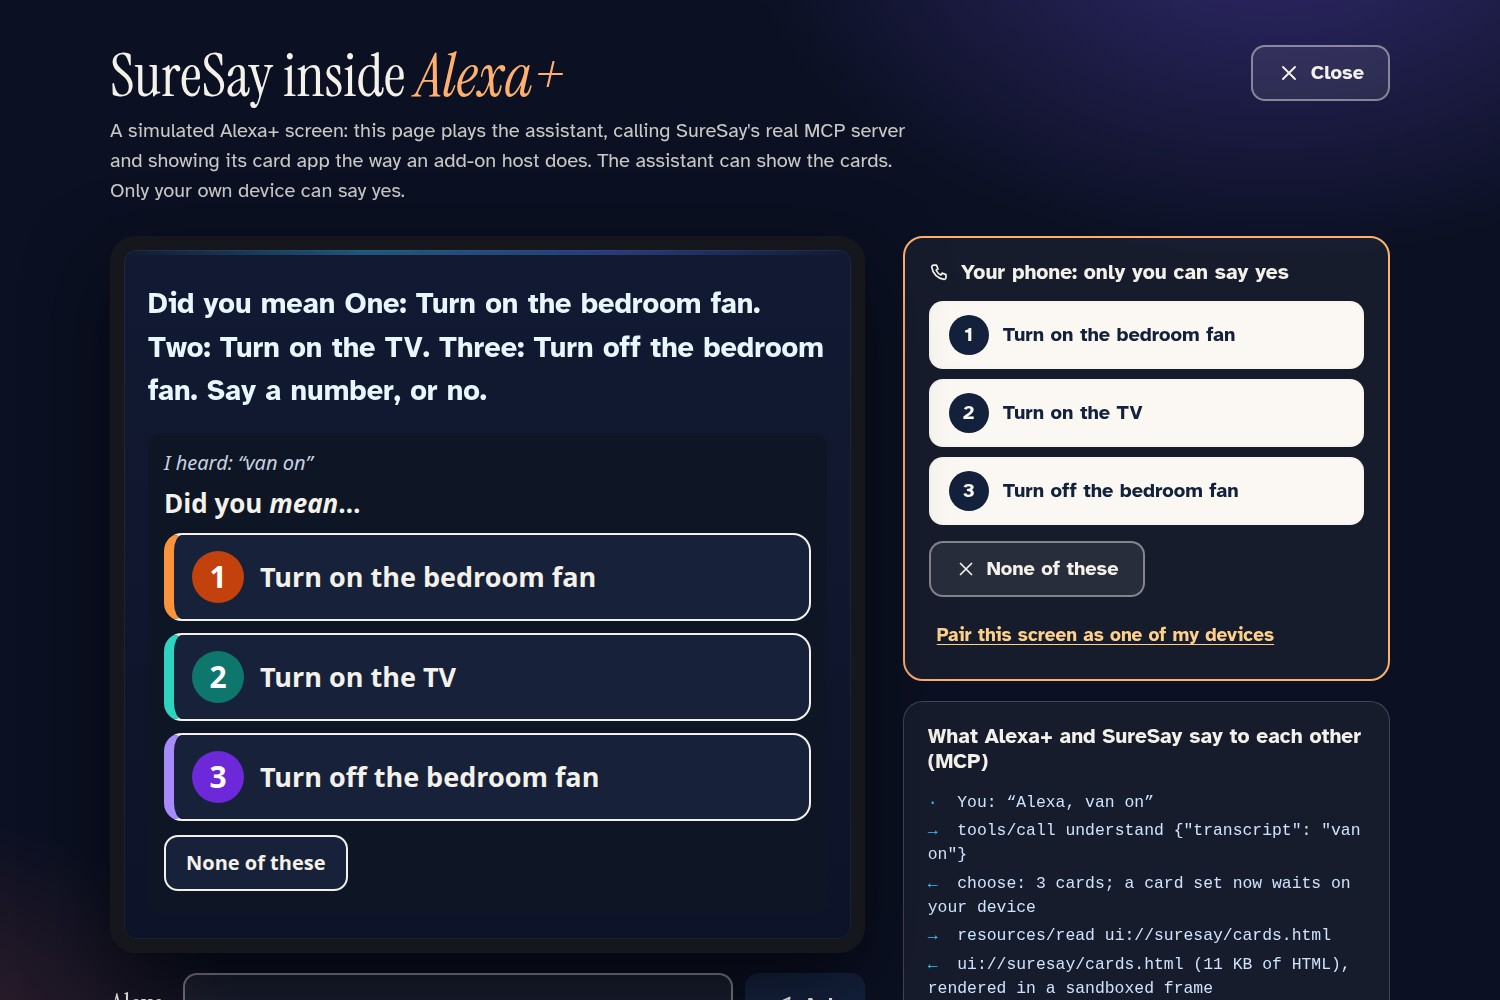
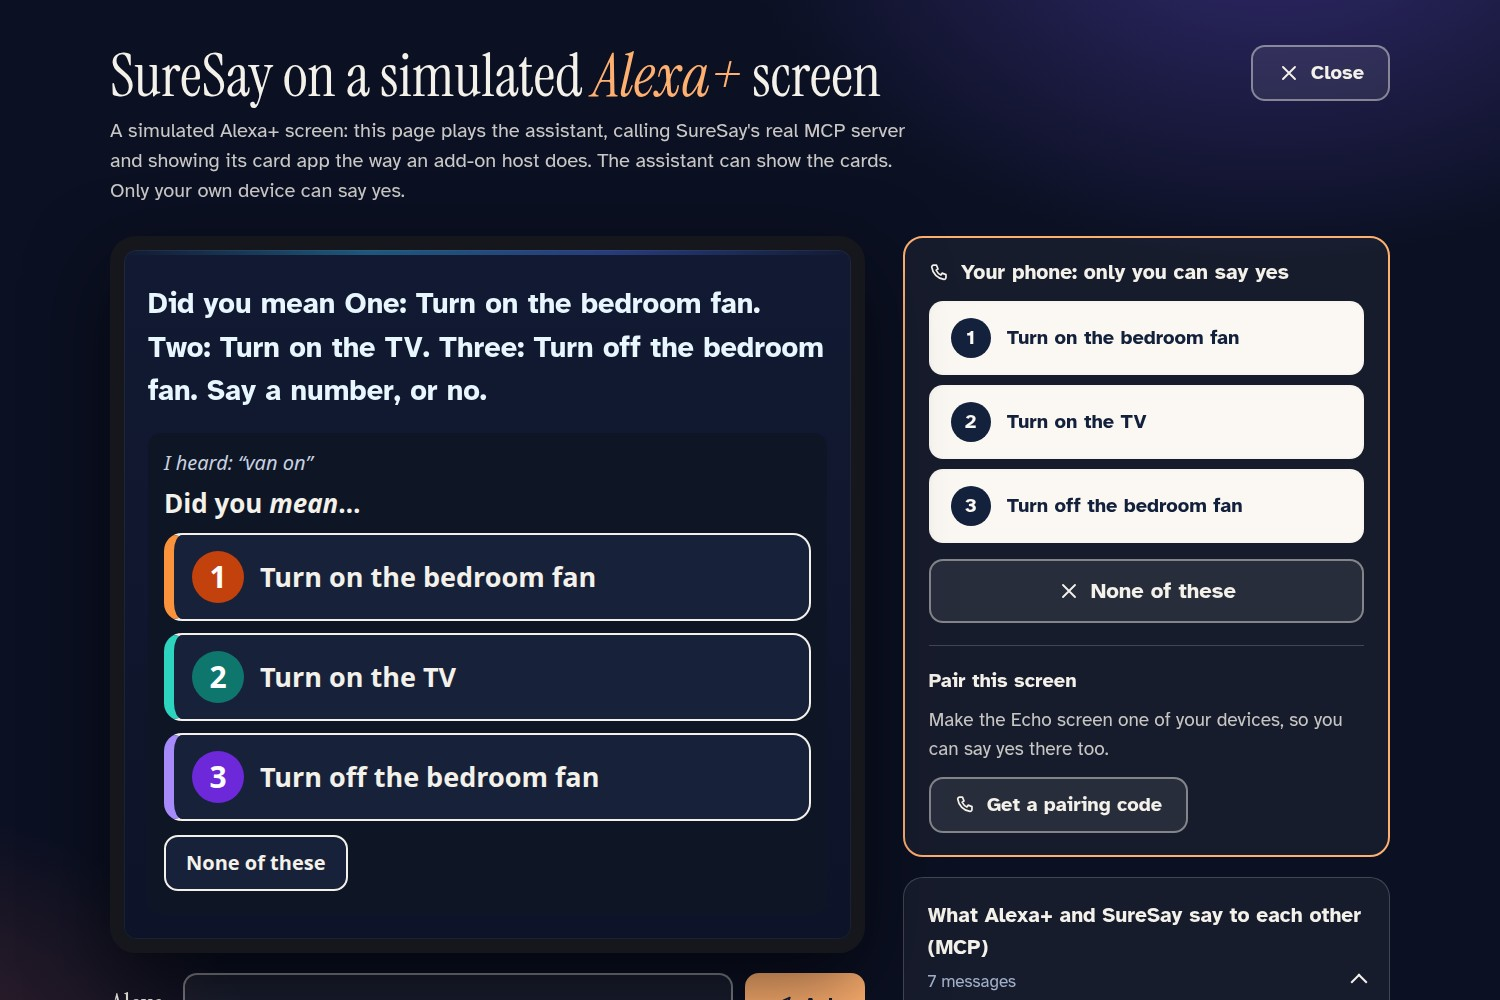
SureSay 1.5.0: task success within two tries, the fourth review's fixes, the app's UX polish, honest claims throughout, live checks 20/20 and Lighthouse on the deployed build; confirm-gate-mcp 0.6.0

Changed region(s): [[0.6133, 0.31, 0.92, 0.992], [0.184, 0.062, 0.5827, 0.124], [0.4907, 0.961, 0.5827, 1.0]]

diff --git a/web/src/test/alexa.test.tsx b/web/src/test/alexa.test.tsx
@@ -39,7 +39,7 @@ afterEach(() => vi.restoreAllMocks());
 describe("the Alexa+ view", () => {
   it("has no axe violations, idle, with cards, and on the second check", async () => {
     const { rerender, choose, yes, none, onClose } = renderAlexa({ kind: "idle" }, { pairCode: async () => "123456" });
-    expect(screen.getByRole("dialog", { name: /SureSay inside Alexa\+/ })).toBeTruthy();
+    expect(screen.getByRole("dialog", { name: /SureSay on a simulated Alexa\+ screen/ })).toBeTruthy();
     expect(await axeViolations()).toEqual([]);
     rerender(<AlexaView host={fakeHost()} phase={CARDS} choose={choose} yes={yes} none={none} onClose={onClose} pairCode={async () => "123456"} />);
     expect(await axeViolations()).toEqual([]);

diff --git a/web/src/components/AlexaView.tsx b/web/src/components/AlexaView.tsx
@@ -167,7 +167,7 @@ export function AlexaView({ host, phase, choose, yes, none, pairCode, speak, onC
     <div className="alexa" role="dialog" aria-modal="true" aria-labelledby="alexa-title" ref={ref}>
       <header className="alexa__head">
         <h2 id="alexa-title" className="alexa__title">
-          SureSay inside <em>Alexa+</em>
+          SureSay on a simulated <em>Alexa+</em> screen
         </h2>
         <p className="alexa__note">
           A simulated Alexa+ screen: this page plays the assistant, calling SureSay's real MCP server and showing its card app the way an add-on host

diff --git a/eval/run_live_checks.py b/eval/run_live_checks.py
@@ -82,7 +82,7 @@ def conformance(lv: Live) -> None:
     lv.check("authorization server metadata: PKCE S256", asm.get("code_challenge_methods_supported") == ["S256"])
 
     for version, client in (("2025-03-26", "Alexa+ MCP Client"), ("2025-06-18", "any MCP client"),
-                            ("2025-11-25", "any MCP client"), ("2026-07-28", "any MCP client")):
+                            ("2025-11-25", "any MCP client")):
         init = lv.result("initialize", {"protocolVersion": version, "capabilities": {"roots": {"listChanged": True}},
                                         "clientInfo": {"name": client, "version": "1.0.0"}}, version=version)
         lv.check(f"initialize answered in {version} ({client})", init.get("protocolVersion") == version,

diff --git a/packages/confirm-gate-mcp/src/confirm_gate/__init__.py b/packages/confirm-gate-mcp/src/confirm_gate/__init__.py
@@ -18,4 +18,4 @@ __all__ = [
     "EvidenceRejected", "Gate", "GatedServer", "MemoryStore", "PairingError", "PendingSet", "SqliteStore",
     "Store", "decide", "device_routes", "normalise", "params_hash", "sign_request", "wrap_upstream",
 ]
-__version__ = "0.5.0"
+__version__ = "0.6.0"

diff --git a/suresay/app.py b/suresay/app.py
@@ -24,7 +24,7 @@ from .speech import Speaker
 from .state import Home
 
 logger = logging.getLogger(__name__)
-__version__ = "1.4.0"
+__version__ = "1.5.0"
 
 from .catalog import NEGATIONS, has_negation  # noqa: E402,F401 (re-exported for eval/run_adapt_eval.py)
 

diff --git a/docs/DEVPOST.md b/docs/DEVPOST.md
@@ -41,7 +41,7 @@ SureSay is a self-hosted MCP server built to the Alexa+ add-on requirements, and
 
 | Alexa+ asks for | SureSay |
 |---|---|
-| MCP spec 2025-11-25, Streamable HTTP, a remote URL | `/mcp` on AWS Lambda; negotiates 2025-11-25 (and 2026-07-28) |
+| MCP spec 2025-11-25, Streamable HTTP, a remote URL | `/mcp` on AWS Lambda; answers 2025-11-25, 2025-06-18 and the Alexa+ client's 2025-03-26 (live checks) |
 | Account linking: OAuth 2.1 code flow + PKCE S256, Protected Resource Metadata (RFC 9728), auth-server metadata, Bearer in the header, 401 without `WWW-Authenticate` | All implemented and tested (`suresay/oauth.py`, `tests/test_oauth.py`). Linking means entering your SureSay pairing code. The link is listed under Your devices: unpairing it ends every token at once, and a replayed refresh token ends the link too |
 | The Alexa+ MCP client itself | Its documented `initialize` (protocol 2025-03-26, "Alexa+ MCP Client") is answered in its own version; tested (`tests/test_alexa_client.py`) |
 | Visuals through MCP Apps | `understand` declares `ui://suresay/cards.html`, and its result carries `_meta.ui` (`resourceUri`, `invoking`, `invoked`), where Alexa+ looks for custom visuals. The three cards render on an Echo Show or Fire TV, and that screen can pair as one of your devices, so a tap there is your own evidence |
@@ -140,11 +140,11 @@ Everything user-facing is new:
 - **The Alexa skill**, deployed and flow-tested on AWS.
 - **The web client:** WCAG 2.2 AA, voice, tap, keys or one switch, three themes, TV mode.
 - **The evaluation:** TORGO on Amazon Transcribe with two runs, repeated with Amazon Nova 2 Sonic and a local recogniser, a 50-case safety suite with a linked-client arm, latency measured in region, per-user calibration and a Hinglish check.
-- **One-command deploy and teardown**, and more than 700 tests (382 for the gate, 161 for the hub, 174 for the web client).
+- **One-command deploy and teardown**, and 788 tests (423 for the gate, 182 for the hub, 183 for the web client).
 
 ## Open source
 
-[confirm-gate-mcp](https://github.com/Prashant-thakur77/confirm-gate-mcp) is the gate on its own: MIT, its own repository, CI on Python 3.12 and 3.13 plus a packaging check, and releases v0.2.0 to v0.4.0 built during the window. `confirm-gate serve --upstream <any MCP server>` puts confirm-before-act, with an approval page, in front of any MCP server. With `--strict` it ignores the upstream's own read-only claims, because MCP tool annotations are hints from the server, so it is safe in front of servers you didn't write. Install: `pip install "git+https://github.com/Prashant-thakur77/confirm-gate-mcp"`.
+[confirm-gate-mcp](https://github.com/Prashant-thakur77/confirm-gate-mcp) is the gate on its own: MIT, its own repository, CI on Python 3.12 and 3.13 plus a packaging check, and releases v0.2.0 to v0.6.0 built during the window. `confirm-gate serve --upstream <any MCP server>` puts confirm-before-act, with an approval page, in front of any MCP server. With `--strict` it ignores the upstream's own read-only claims, because MCP tool annotations are hints from the server, so it is safe in front of servers you didn't write. Install: `pip install "git+https://github.com/Prashant-thakur77/confirm-gate-mcp"`.
 
 Why it matters: as assistants gain the power to act, prompt injection becomes a way to act. A gate that keeps the confirmation secret away from the model turns "never act without the user" from a prompt into a property of the code, for any MCP server. In SureSay's safety suite a real model (Amazon Nova 2 Sonic) as the agent made 11 unconfirmed changes in 35 cases without the gate, and 0 behind it.
 

diff --git a/docs/JUDGES.md b/docs/JUDGES.md
@@ -25,8 +25,8 @@ Open the live demo, choose **Start quietly** or **Start with voice**, then **Try
 
 | Criterion | Look at |
 |---|---|
-| **Technical implementation** | `mcp_server/server.py` (MCP, spec 2025-11-25, Streamable HTTP, MCP Apps); `tests/test_alexa_client.py` (the Alexa+ MCP client's own `initialize`, and the card UI in the tool result); `packages/confirm-gate-mcp` (the gate: 355 tests; three independent adversarial reviews, every confirmed finding fixed with a test); `suresay/oauth.py` (Alexa+ account linking); `skills/suresay/SKILL.md` (an Agent Skill); `strands_agent/` (on AgentCore Runtime); `docs/AWS_INTEGRATIONS.md` (each AWS service with its code, IAM and a verify command) |
-| **Design** | `web/` (WCAG 2.2 AA, voice / tap / keys / one switch, three themes, calm mode, TV mode; 170 tests including axe); the **Alexa+ view** (the MCP App inside a simulated Echo Show, the yes on your phone); `docs/devpost/` (screens) |
+| **Technical implementation** | `mcp_server/server.py` (MCP, spec 2025-11-25, Streamable HTTP, MCP Apps); `tests/test_alexa_client.py` (the Alexa+ MCP client's own `initialize`, and the card UI in the tool result); `packages/confirm-gate-mcp` (the gate: 423 tests; four adversarial reviews by separate AI reviewer agents, every confirmed finding fixed with a test); `suresay/oauth.py` (Alexa+ account linking); `skills/suresay/SKILL.md` (an Agent Skill); `strands_agent/` (on AgentCore Runtime); `docs/AWS_INTEGRATIONS.md` (each AWS service with its code, IAM and a verify command) |
+| **Design** | `web/` (WCAG 2.2 AA, voice / tap / keys / one switch, three themes, calm mode, TV mode; 183 tests including axe); the **Alexa+ view** (the MCP App inside a simulated Echo Show, the yes on your phone); `docs/devpost/` (screens) |
 | **Potential impact** | `eval/REPORT.md`: held-out dysarthric speakers, B0/B1/SureSay baselines, false accepts 62.8% → 2.3%, never acting on a guess, worst case and negative results published |
 | **Quality of the idea** | The confirmation secret never reaches the model, so "nothing happens without you" is a property of the code: 0/50 adversarial cases, including through an Alexa+-style OAuth-linked client. It enforces Amazon's own add-on requirements (explicit confirmation, no duplicate transactions, reject changed amounts, receipts) in code: `alexa_plus/README.md` |
 | **Friction log** | `docs/FRICTION_LOG.md` (each row has task, steps, expected, actual, severity, workaround, suggestion) |

diff --git a/eval/REPORT.md b/eval/REPORT.md
@@ -333,14 +333,14 @@ Lighthouse 12.8.2 on the live home page (https://fig5s4lcztnov5vd3us22pnmoi0srph
 
 | Form factor | Performance | Accessibility | Best practices | SEO | First paint | Largest paint | Layout shift |
 |---|---|---|---|---|---|---|---|
-| Phone | 88 | **100** | 100 | 100 | 2.4 s | 3.0 s | 0.000 |
+| Phone | 89 | **100** | 100 | 100 | 1.4 s | 3.2 s | 0.000 |
 | Desktop | 97 | **100** | 100 | 100 | 0.4 s | 0.7 s | 0.000 |
 
 The web client's own tests also run axe on every screen (`web/src/test`).
 
 ## The live server, checked as an MCP client
 
-`eval/run_live_checks.py` runs against the deployed hub (https://fig5s4lcztnov5vd3us22pnmoi0srphu.lambda-url.us-east-1.on.aws) over HTTPS as an MCP client: **20 of 20 checks passed** (2026-10-22T15:04:23+0530).
+`eval/run_live_checks.py` runs against the deployed hub (https://fig5s4lcztnov5vd3us22pnmoi0srphu.lambda-url.us-east-1.on.aws) over HTTPS as an MCP client: **20 of 20 checks passed** (2026-10-22T15:30:51+0530).
 
 | | Check | Detail |
 |---|---|---|
@@ -369,16 +369,16 @@ Round trips from the test machine (they include the network to us-east-1; `/heal
 
 | Request | p50 ms | p95 ms | p50 minus network, ms |
 |---|---|---|---|
-| healthz (network baseline) | 256.6 | 260.7 | — |
-| tools/list | 269.3 | 275.4 | 12.7 |
-| tools/call home_status | 269.4 | 281.7 | 12.8 |
-| tools/call understand (typed) | 285.8 | 291.4 | 29.2 |
+| healthz (network baseline) | 253.3 | 258.2 | — |
+| tools/list | 269.1 | 277.7 | 15.8 |
+| tools/call home_status | 266.4 | 272.2 | 13.1 |
+| tools/call understand (typed) | 291.8 | 306.6 | 38.5 |
 
 The server's own processing time for real requests in the last 48 hours, from the CloudWatch metric the hub emits (`UnderstandMs`; voice includes speech recognition):
 
 | Request | Requests | p50 ms | p95 ms |
 |---|---|---|---|
-| understand, typed | 89 | 9.5 | 1360.9 |
+| understand, typed | 109 | 8.9 | 1335.2 |
 | understand, voice | 62 | 1472.8 | 4890.1 |
 
 ## What does not work yet (published on purpose)

diff --git a/CHANGELOG.md b/CHANGELOG.md
@@ -1,5 +1,12 @@
 # Changelog
 
+## 1.5.0 (22 Oct 2026)
+
+- **Task success on dysarthric speech** (`eval/run_task_eval.py`): a sentence done within two tries, 100.0% for SureSay with 0 wrong actions, against 98.1% with 1.9% wrong actions for the phrasebook baseline and 33.3% for a plain assistant (local recogniser; caveats in the report).
+- **A fourth adversarial review**, every finding fixed with a failing test first: negated answers ("I wouldn't go ahead") are a no; a question after a filler ("um, is two the fan") is still a question, while "can I have two" still chooses; "the number one" chooses one; a pairing code dies with the device that made it; a malformed input is a 400; ordering from an empty cart says so; "ac" and "tv" count for relevance; an honorific keeps one name word; the status line says when cards are waiting.
+- **The app:** "Back to Talk to someone" after a sentence is said; a calm, wordless dot while MCP connects; Help fits the phone top bar; the Alexa+ view shows the pairing code big with Copy and New code, large answer buttons, and a log that folds away on a phone.
+- **Honest claims throughout:** the reviews are by separate AI reviewer agents; Nova 2 Lite and the agent are marked as awaiting quota; unsourced timings removed.
+
 ## 1.4.0 (22 Oct 2026)
 
 - **Consent stress test** (`eval/run_consent_stress.py`): 7,093 generated non-answers and 190 genuine answers. It found two real gaps, now fixed with a failing test each: a question without a question mark ("is two the fan") chose a card, and "the to one" (a misheard "the two one") chose option one. "Go ahead" now counts as a yes. Result: 0 non-answers taken as consent (keyword spotting: 95.5%), 100% of genuine answers understood. Claim 1 recomputed: unchanged.

diff --git a/packages/confirm-gate-mcp/CHANGELOG.md b/packages/confirm-gate-mcp/CHANGELOG.md
@@ -1,5 +1,11 @@
 # Changelog
 
+## 0.6.0 (2026-10-22)
+
+- **Pairing codes made by a device** (`start_pairing(user, minted_by=device_id)`) stop working if that device is unpaired first, and the new device records `paired_via`.
+- **Consent parser:** negated auxiliaries ("wouldn't", "can't", "cannot"...) are a no; a question is still a question after a filler or a reflexive yes ("um, is two the fan"); a polite request ("can I have two") is not a question; "the number one" and "the option one" choose one.
+- `/device/evidence` answers 400 when `input` is not a string.
+
 ## 0.5.0 (2026-10-22)
 
 - **Receipts record how the user answered on the device:** `submit_tap(..., input="touch" | "key" | "switch")` (and `input` on `/device/evidence`); the receipt's `how.input` and `evidence.input` name it, and `to_text` says "your tap", "your key press" or "your switch". An unknown input is refused.

diff --git a/alexa_plus/README.md b/alexa_plus/README.md
@@ -4,7 +4,7 @@ SureSay's MCP server meets the Alexa+ add-on requirements, so it can be onboarde
 
 | Requirement | SureSay |
 |---|---|
-| Streamable HTTP, MCP spec 2025-11-25 | `/mcp` (`mcp` 2.1, stateless); negotiates 2025-11-25 and 2026-07-28 |
+| Streamable HTTP, MCP spec 2025-11-25 | `/mcp` (`mcp` 2.1, stateless); answers 2025-11-25 and 2025-06-18 (checked on the live server) |
 | The Alexa+ MCP client's own `initialize` (protocol 2025-03-26, `"Alexa+ MCP Client"`) | answered in 2025-03-26; tested with Amazon's documented request in `tests/test_alexa_client.py` |
 | Remote HTTPS URL | the hub's Lambda function URL (`make deploy`) |
 | 401 for unauthenticated calls, without `WWW-Authenticate` | `McpAuth` in `suresay/hub.py`; tested in `tests/test_oauth.py` |

diff --git a/README.md b/README.md
@@ -144,7 +144,7 @@ Code pointers, permissions and a verify command for each service: [docs/AWS_INTE
 
 ```bash
 make setup        # Python 3.13 venv (uv) + web client packages
-make test         # 516 Python tests (355 for the gate, 161 for the hub) plus 170 web tests: account linking, the Alexa skill, the 50-case safety suite
+make test         # 605 Python tests (423 for the gate, 182 for the hub) plus 183 web tests: account linking, the Alexa skill, the 50-case safety suite
 make demo         # hub + web client (+ agent when Bedrock is reachable) on http://127.0.0.1:9000
 ```
 
